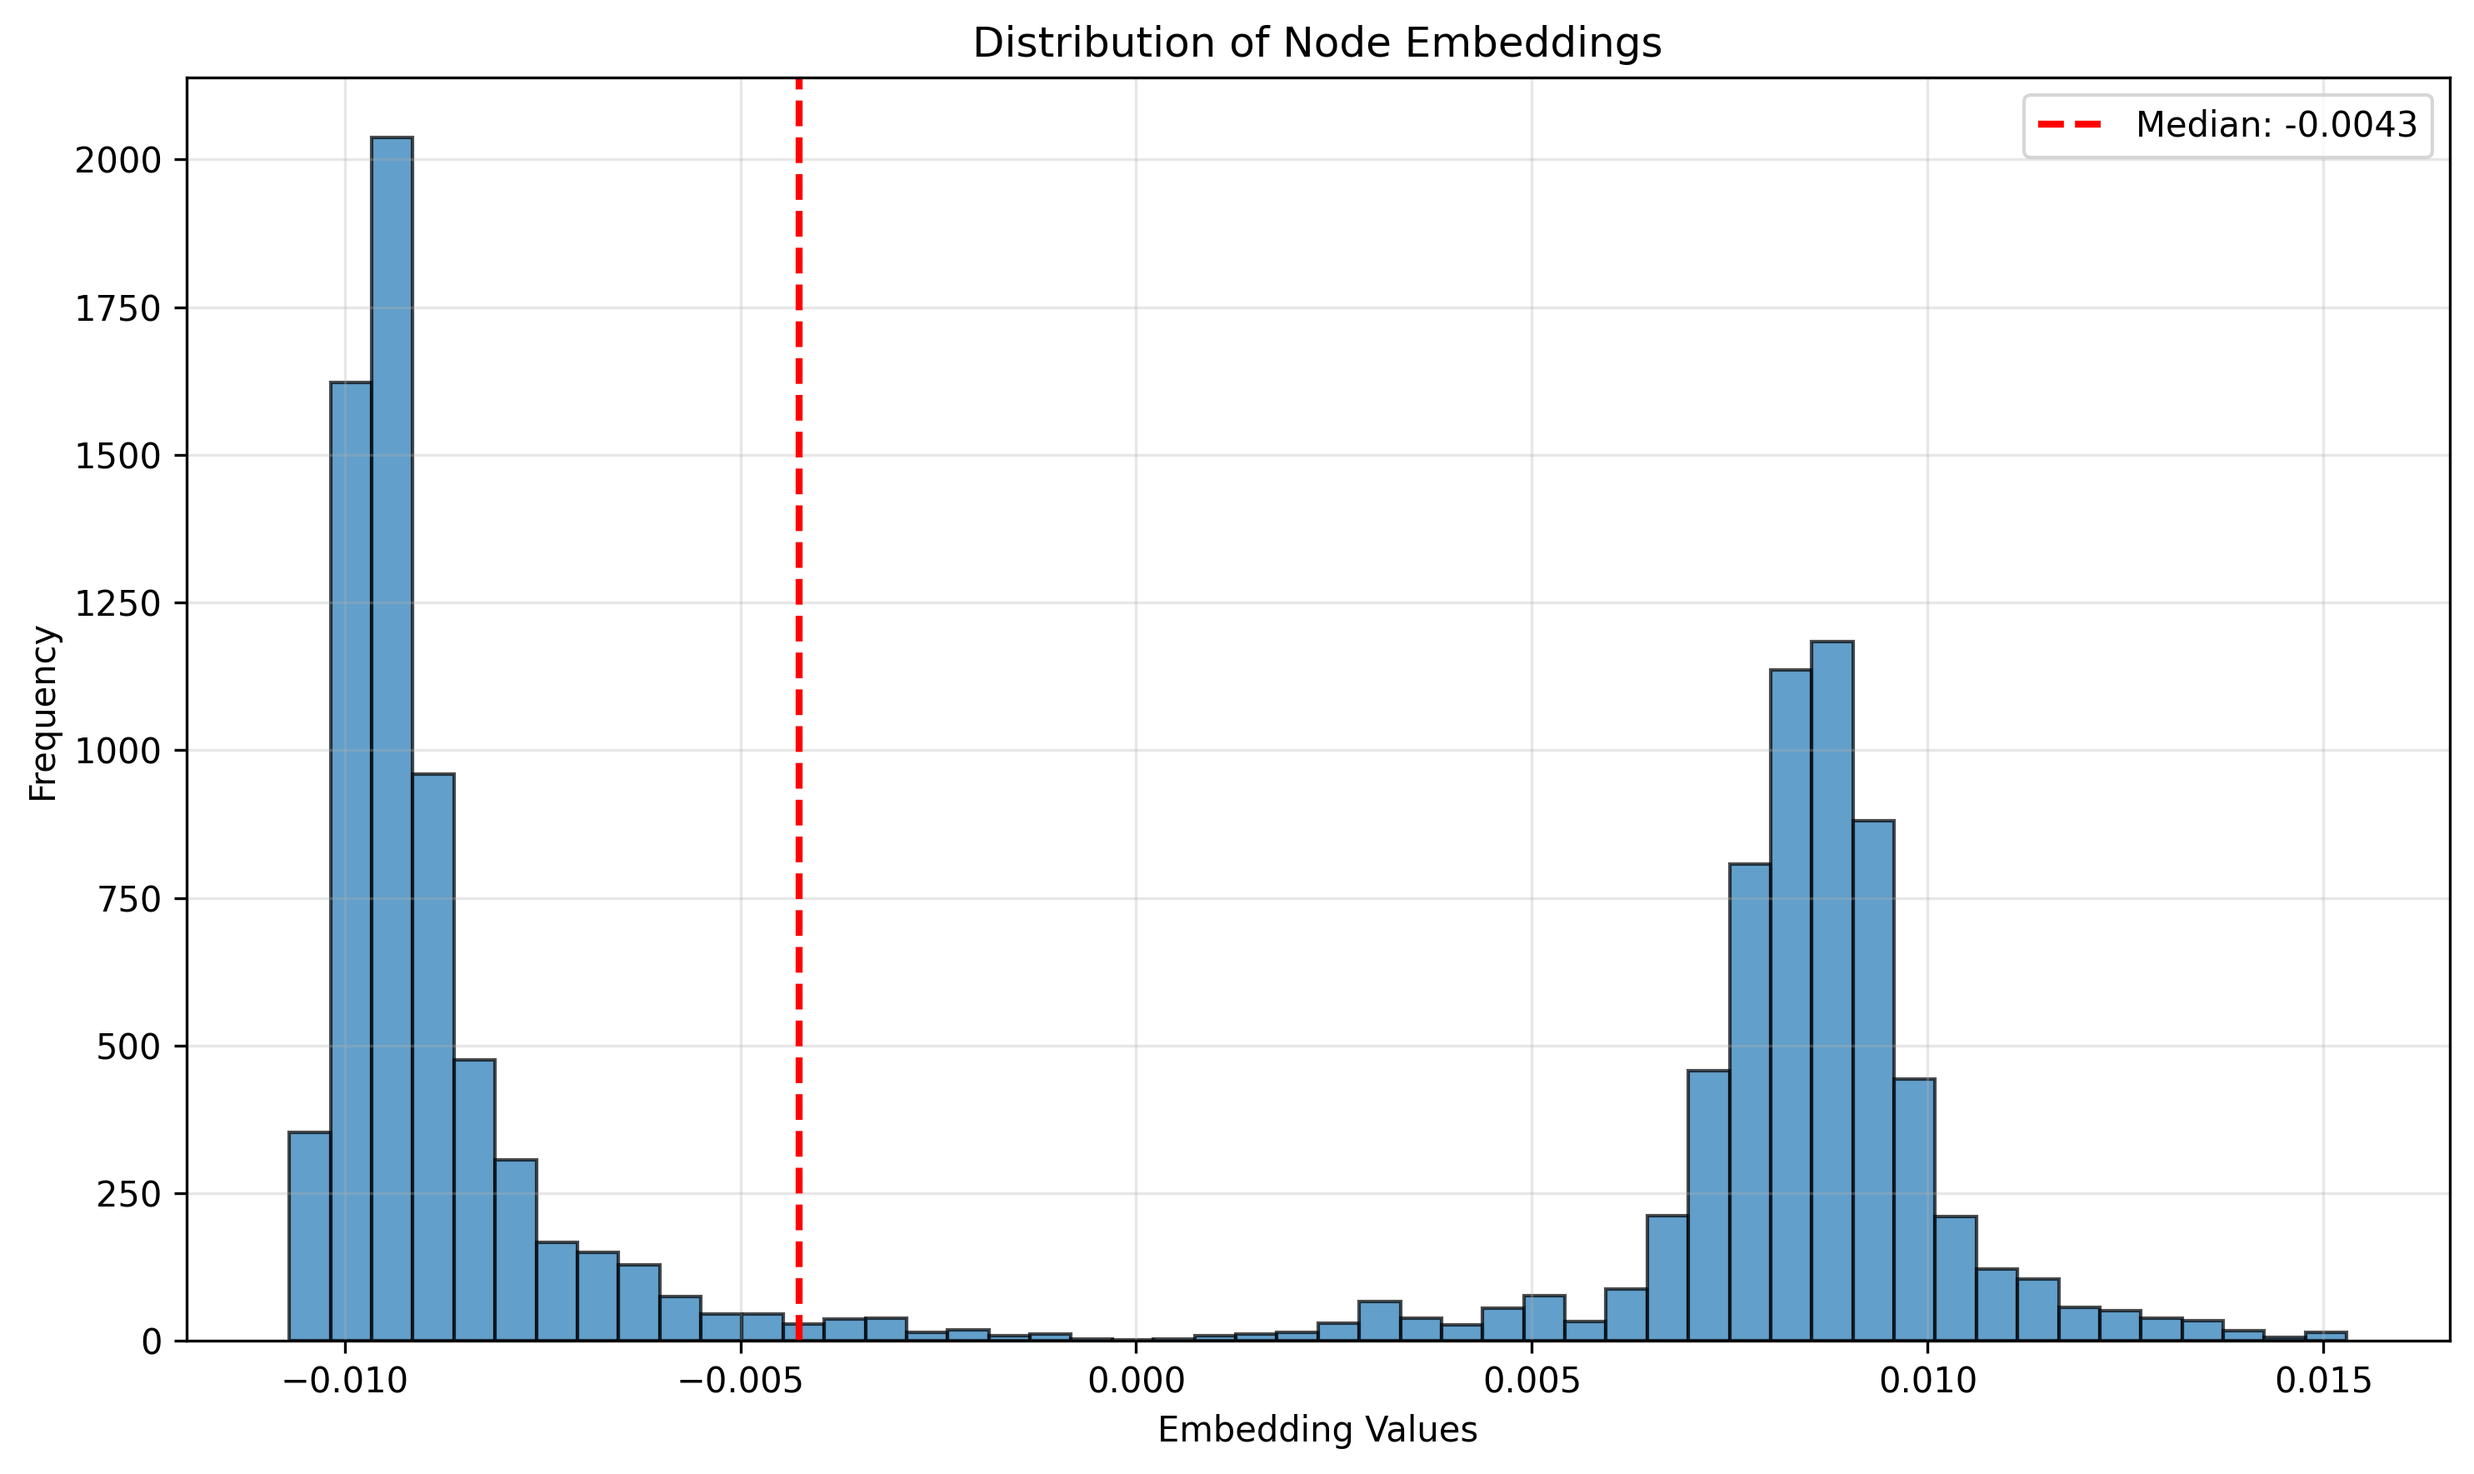
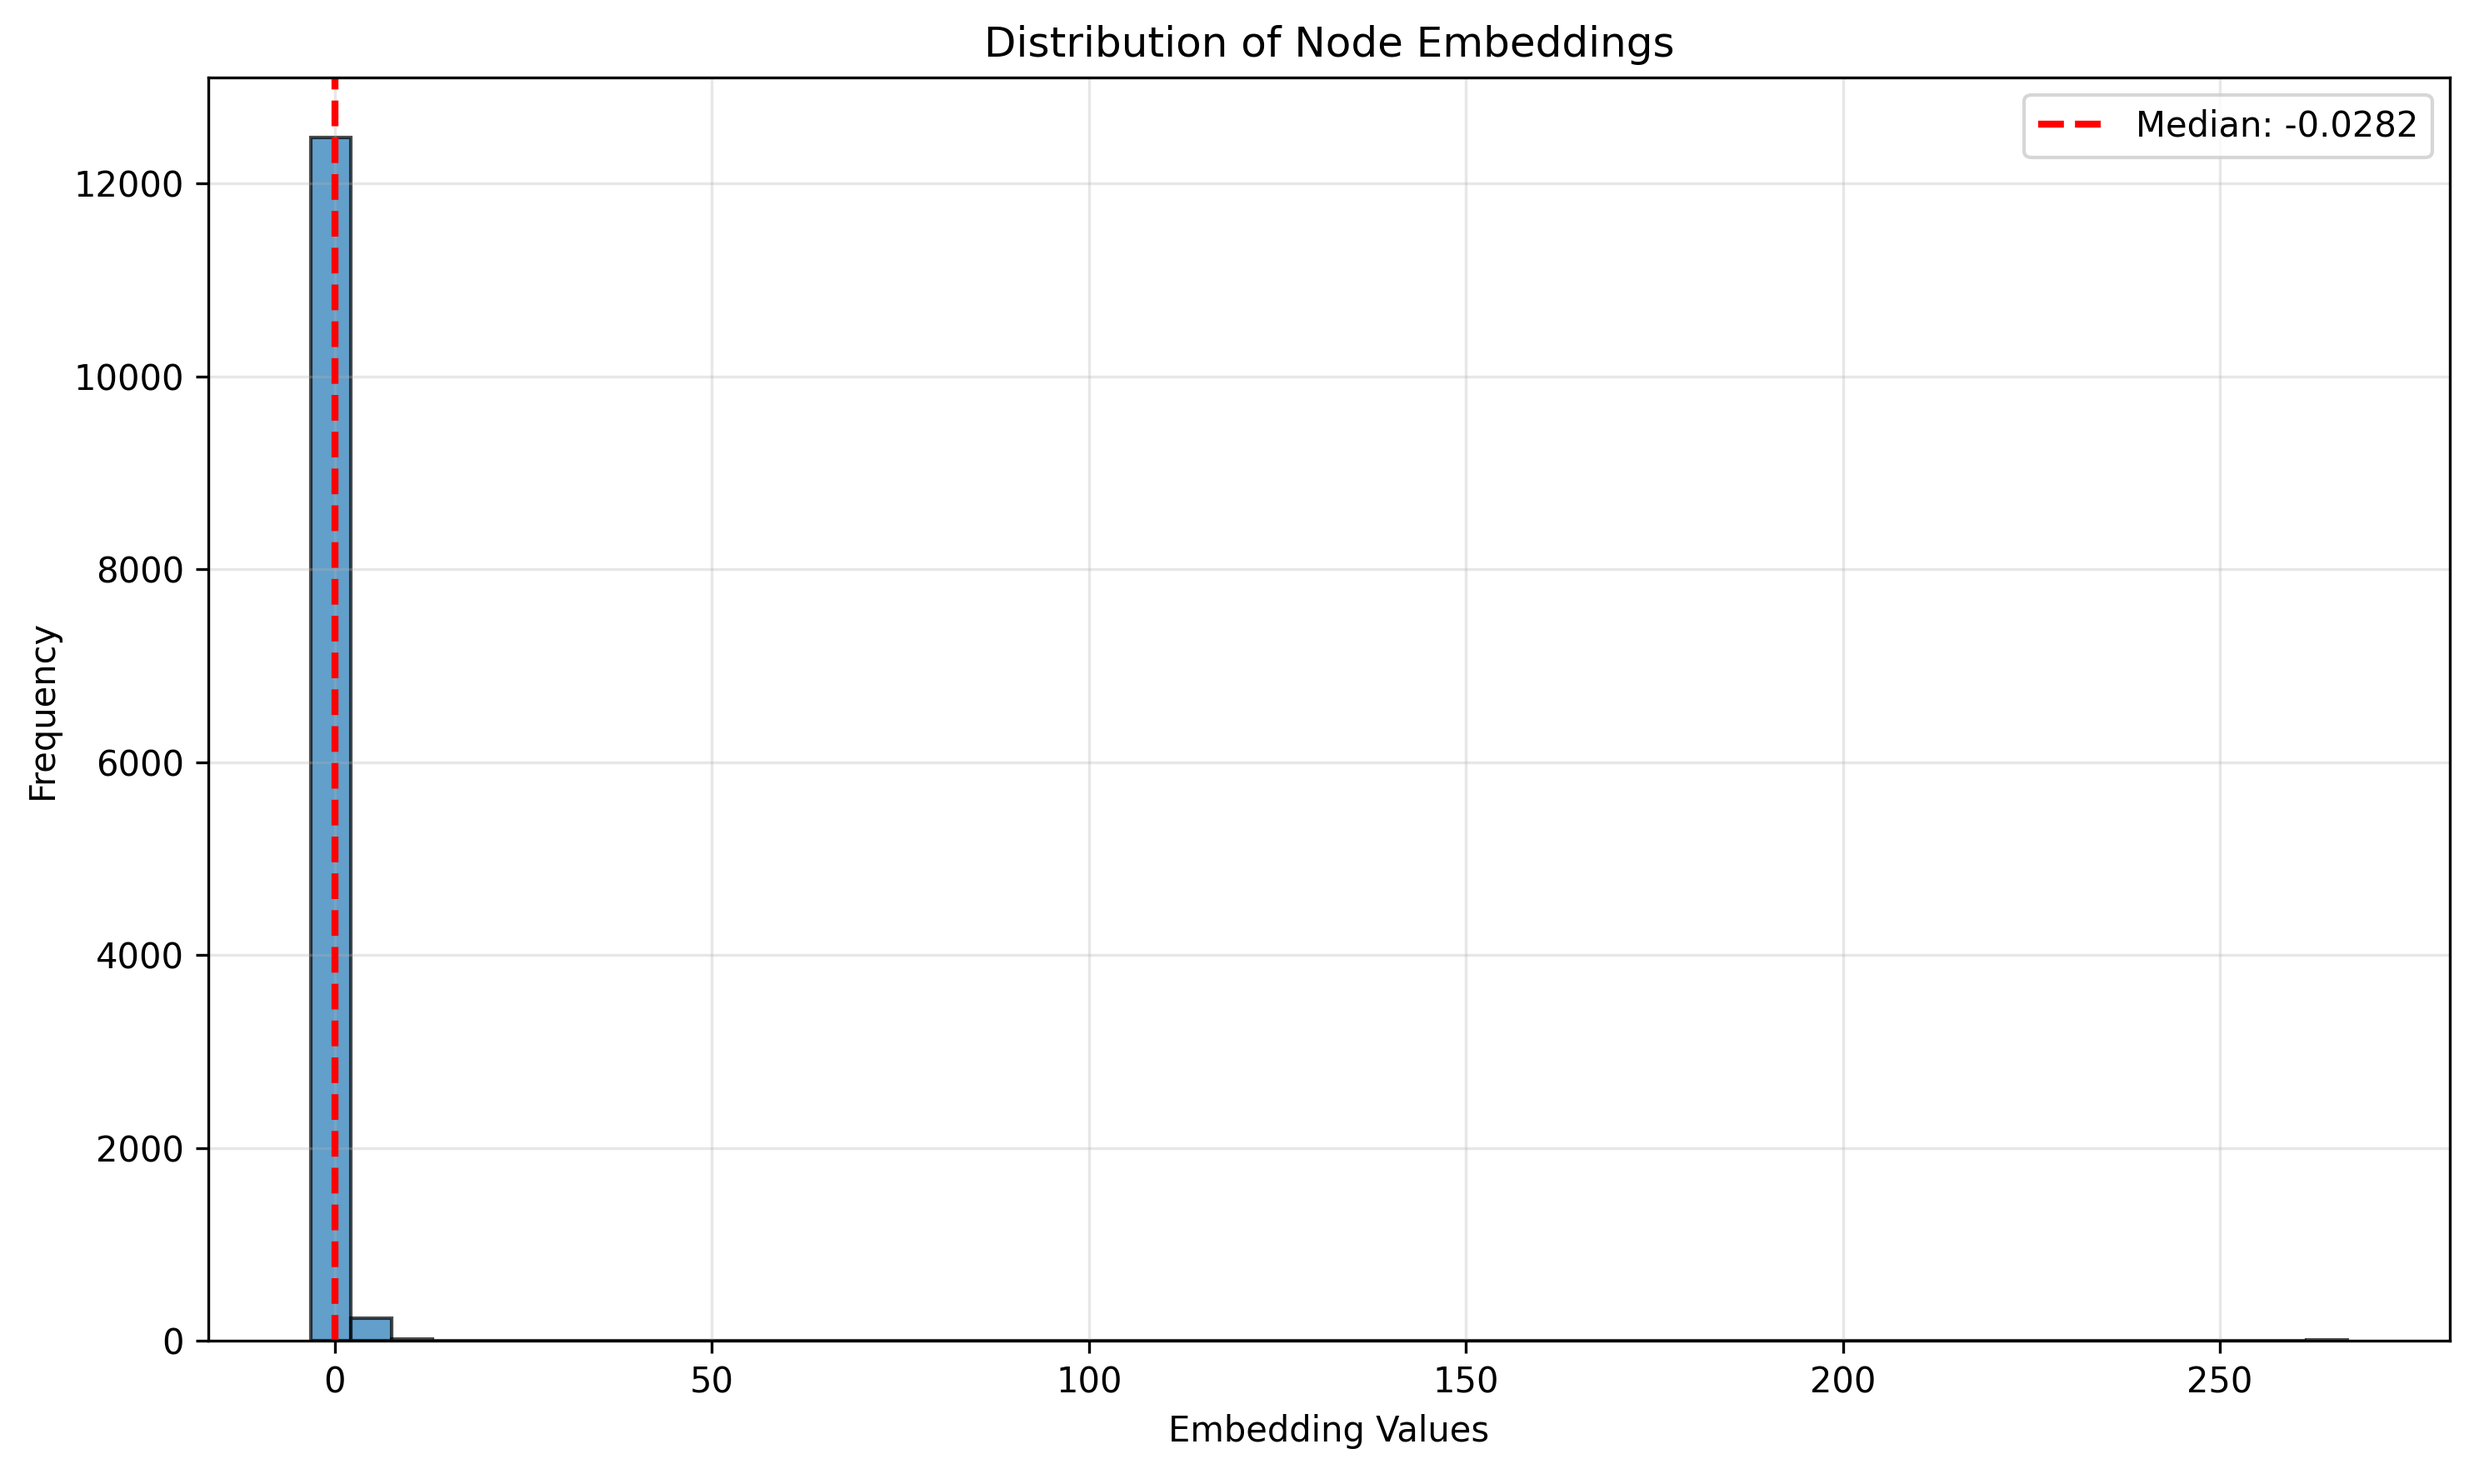
support multi-dim output

Changed region(s): [[0.031, 0.0622, 0.9606, 0.9949], [0.4028, 0.0, 0.6817, 0.0622], [0.9606, 0.0622, 0.9916, 0.0933]]

diff --git a/sessions/GHyPar/loss_func2.py b/sessions/GHyPar/loss_func2.py
@@ -107,8 +107,9 @@ class HypergraphRayleighQuotientLossGeneralized(nn.Module):
         
         # 方法1：通過 Z 生成 partition，再與 hint 和隨機 partition 比較
         
-        # 用 embedding 生成 predicted partition
-        predicted_partition = (torch.sigmoid(Z.squeeze()) > 0.5).float()
+        # 用 embedding 的第一列（Fiedler vector）生成 predicted partition
+        fiedler_vector = Z[:, 0] if Z.dim() > 1 and Z.shape[1] > 1 else Z.squeeze()
+        predicted_partition = (torch.sigmoid(fiedler_vector) > 0.5).float()
         
         # 好的樣本：hint partition  
         good_partition = hint_partition.float()
@@ -181,8 +182,9 @@ class HypergraphRayleighQuotientLossGeneralized(nn.Module):
         for j in range(k):
             f = Z[:, j:j+1]  # 當前列向量
             
-            # 計算 f^T D_v f (廣義內積)
-            f_Dv_f = torch.sum(f.pow(2) * Dv.unsqueeze(1))
+            # 計算 f^T D_v f (廣義內積)  
+            # f: [num_nodes, 1], Dv: [num_nodes] -> 需要正確廣播
+            f_Dv_f = torch.sum(f.squeeze() * f.squeeze() * Dv)
             
             # 計算 f^T Θ f
             theta_quad_form = self._calculate_theta_quadratic_form(
@@ -209,6 +211,9 @@ class HypergraphRayleighQuotientLossGeneralized(nn.Module):
         # 主要損失：所有瑞利商的均值
         rayleigh_loss = torch.mean(rayleigh_quotients)
         
+        # 添加 Fiedler vector 分離約束，防止退化為單峰
+        separation_loss = self._fiedler_separation_penalty(Z)
+        
         # 對比學習損失：驗證 hint 確實比隨機好
         contrastive_loss = self._contrastive_partition_loss(Z, hyperedge_index, num_nodes, hint_partition, cut_size_func)
         
@@ -223,11 +228,39 @@ class HypergraphRayleighQuotientLossGeneralized(nn.Module):
         # 組合損失 - 自監督學習
         lambda_contrastive = 0.01 # 對比學習權重
         lambda_kl = 0.001         # KL 散度權重 (降低)
+        lambda_separation = 0.1   # 分離約束權重
         
         loss = (rayleigh_loss + 
                 lambda_contrastive * contrastive_loss +
-                lambda_kl * kl_loss)
+                lambda_kl * kl_loss +
+                lambda_separation * separation_loss)
         
         
         
         return loss
+    
+    def _fiedler_separation_penalty(self, Z: torch.Tensor) -> torch.Tensor:
+        """
+        計算 Fiedler vector 分離約束，防止退化為單峰分佈。
+        鼓勵第一個維度（Fiedler vector）維持雙峰分佈。
+        """
+        fiedler_vector = Z[:, 0]  # 第一列作為 Fiedler vector
+        
+        # 計算正負值的均值分離度
+        pos_mask = fiedler_vector > 0
+        neg_mask = fiedler_vector < 0
+        
+        if pos_mask.sum() == 0 or neg_mask.sum() == 0:
+            # 如果全為正或全為負，給予懲罰
+            return torch.tensor(1.0, device=Z.device)
+        
+        pos_mean = fiedler_vector[pos_mask].mean()
+        neg_mean = fiedler_vector[neg_mask].mean()
+        
+        # 分離度：正負均值的差距，越大越好
+        separation = torch.abs(pos_mean - neg_mean)
+        
+        # 懲罰項：分離度越小懲罰越大
+        penalty = 1.0 / (separation + 1e-6)
+        
+        return penalty

diff --git a/sessions/GHyPar/train.py b/sessions/GHyPar/train.py
@@ -25,8 +25,8 @@ from loss_func2 import HypergraphRayleighQuotientLossGeneralized as HypergraphRa
 # Constants
 DEFAULT_SEED = 42
 DEFAULT_EPSILON = 0.02
-DEFAULT_NUM_EPOCHS = 100  # 進一步減少 epochs
-DEFAULT_LR = 0.0000025  # 中等學習率平衡穩定性和學習效果
+DEFAULT_NUM_EPOCHS = 8000  # 進一步減少 epochs
+DEFAULT_LR = 0.00005  # 中等學習率平衡穩定性和學習效果
 DEFAULT_HIDDEN_DIM = 256   # 降低模型複雜度
 
 def set_random_seeds(seed: int = DEFAULT_SEED) -> None:
@@ -248,8 +248,7 @@ def train_model_multi_sample(model: HypergraphModel,
     criterion = HypergraphRayleighQuotientLoss()
     optimizer = optim.Adam(model.parameters(), lr=lr)
     
-    # 學習率調度器 - 減緩衰減速度
-    scheduler = optim.lr_scheduler.ExponentialLR(optimizer, gamma=0.999)
+    # 使用固定學習率，不使用調度器
     
     # 添加梯度裁剪防止爆炸
     max_grad_norm = 0.5  # 中等梯度裁剪
@@ -292,13 +291,9 @@ def train_model_multi_sample(model: HypergraphModel,
         # Average loss across all samples
         avg_loss = epoch_loss / num_samples
         
-        # 更新學習率
-        scheduler.step()
-        
-        # Print progress with learning rate info
+        # Print progress (固定學習率)
         if (epoch + 1) % 10 == 0:
-            current_lr = scheduler.get_last_lr()[0]
-            print(f"Epoch [{epoch+1}/{num_epochs}], Avg Loss: {avg_loss:.6f}, LR: {current_lr:.8f}")
+            print(f"Epoch [{epoch+1}/{num_epochs}], Avg Loss: {avg_loss:.6f}, LR: {lr:.8f}")
     
     print("Training completed!")
     

diff --git a/sessions/GHyPar/hypergraph_model.py b/sessions/GHyPar/hypergraph_model.py
@@ -111,36 +111,12 @@ class HypergraphModel(nn.Module):
         
        
         
-        # QR Decomposition for orthogonal embeddings
-        z_orth = self._apply_qr_orthogonalization(z)
-        mu_orth = self._apply_qr_orthogonalization(mu)
+        # 直接返回原始嵌入，不做正交化處理
+        # 移除 QR 分解以保持 Fiedler vector 的自然分佈
         
         # 始終返回 (z, mu, logvar) 以支持推理時的手動採樣
-        return z_orth, mu_orth, logvar
+        return z, mu, logvar
 
-    def _apply_qr_orthogonalization(self, embeddings: torch.Tensor) -> torch.Tensor:
-        """
-        對embedding應用QR分解以獲得正交化的向量。
-        
-        Args:
-            embeddings: [num_nodes, output_dim]
-        
-        Returns:
-            正交化後的embeddings
-        """
-        if embeddings.shape[1] == 1:
-            # 對於單維輸出，直接標準化
-            return F.normalize(embeddings, dim=0, eps=1e-8)
-        else:
-            # 對於多維輸出，使用QR分解
-            Q, R = torch.linalg.qr(embeddings.T)  # 轉置後分解
-            
-            # 確保R對角線為正（標準化）
-            signs = torch.sign(torch.diag(R))
-            signs[signs == 0] = 1
-            Q = Q * signs.unsqueeze(0)
-            
-            return Q.T  # 轉回原始形狀
 
     def _init_weights(self):
         """
